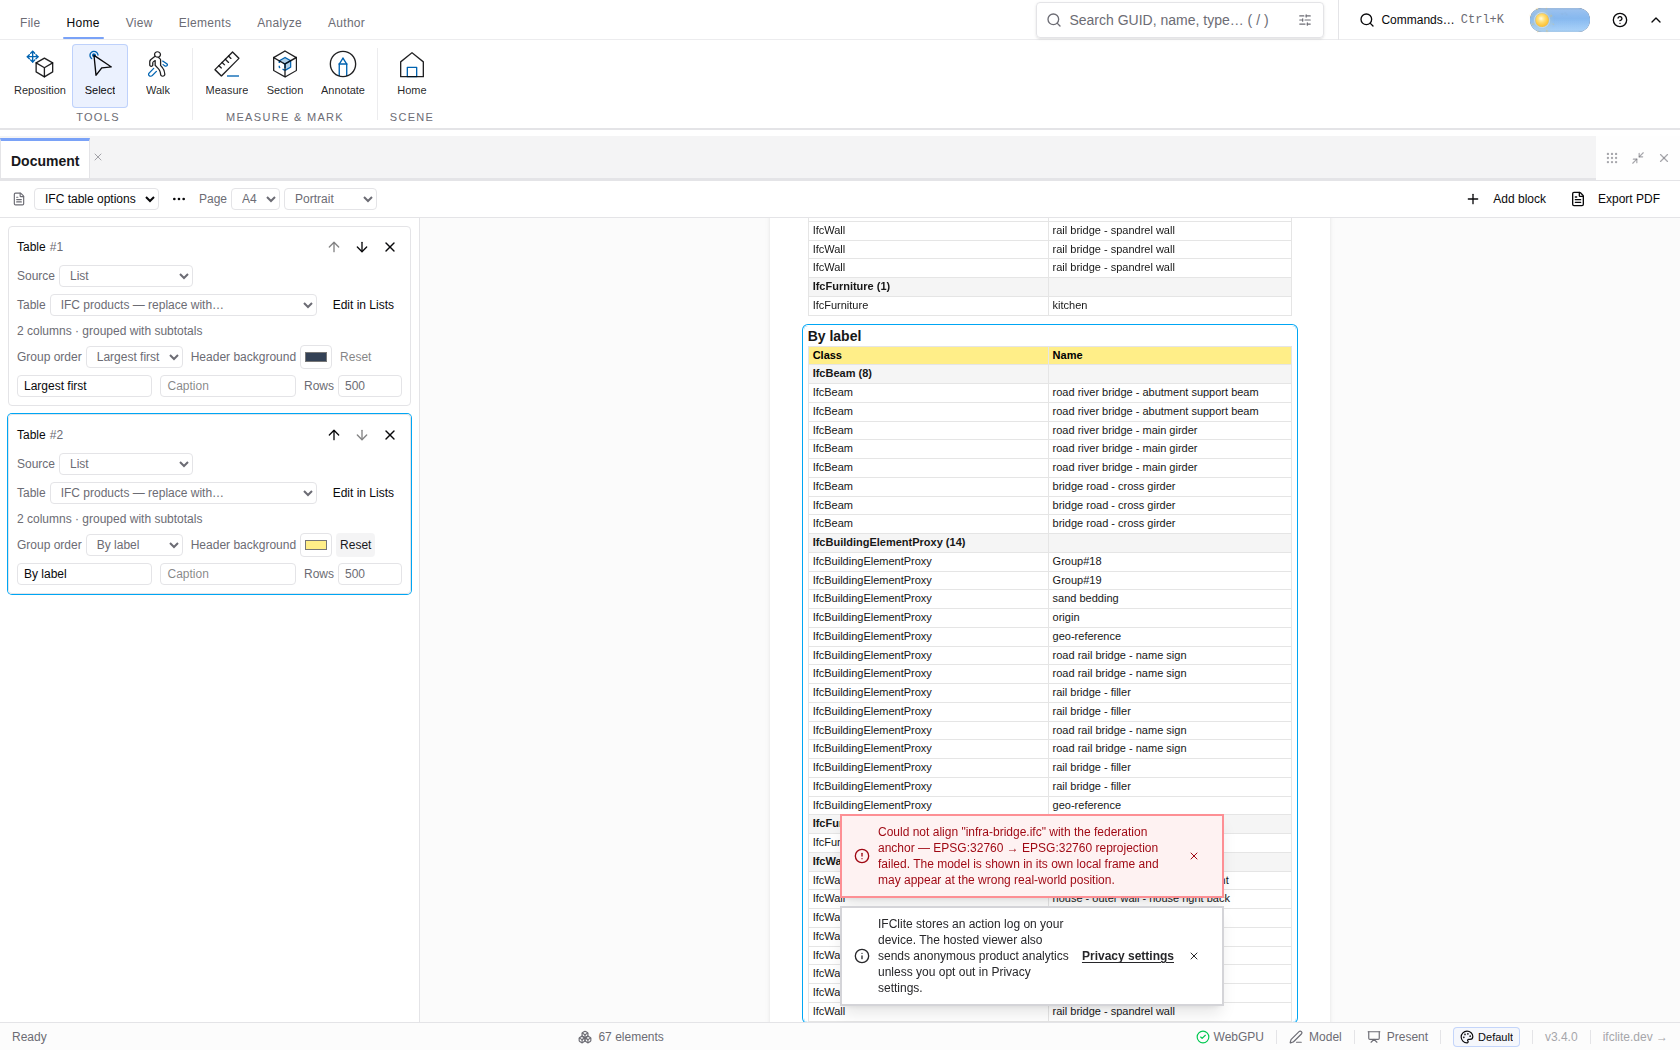
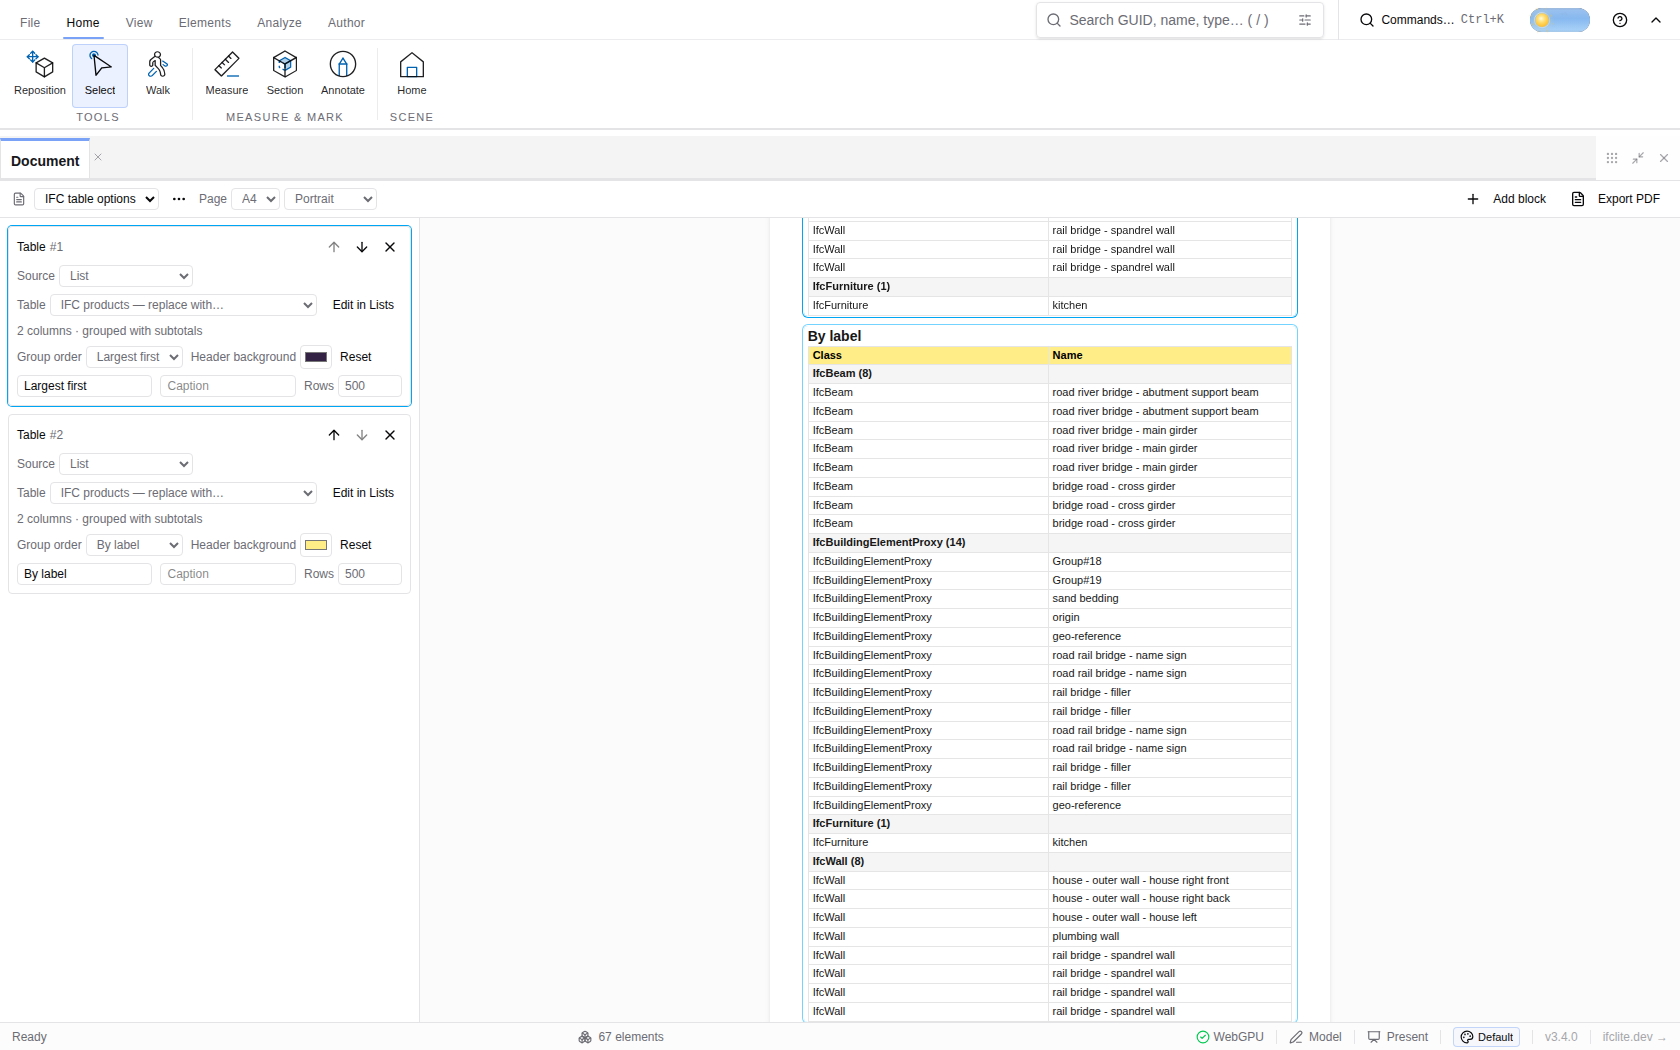
test(viewer): show readable table palettes without toast overlays

Changed region(s): [[0.4952, 0.7619, 0.7429, 0.9752], [0.1857, 0.3352, 0.2167, 0.3657]]

diff --git a/tests/e2e/document-text.e2e.spec.ts b/tests/e2e/document-text.e2e.spec.ts
@@ -493,6 +493,10 @@ test('#6489 real IFC document tables retain independent ordering and coloured re
   await color.fill('#ffee88');
   await expect(preview.locator('th').first()).toHaveCSS('background-color', 'rgb(255, 238, 136)');
   await expect(preview.locator('th').first()).toHaveCSS('color', 'rgb(0, 0, 0)');
+  await panel.locator('[data-block-editor="largest"] input[aria-label="Header background"]').fill('#332244');
+  await expect(firstPreview.locator('th').first()).toHaveCSS('color', 'rgb(255, 255, 255)');
+  const dismiss = page.getByRole('button', { name: 'Dismiss notification', exact: true });
+  while (await dismiss.count()) await dismiss.first().click();
   await preview.scrollIntoViewIfNeeded();
   await page.screenshot({ path: testInfo.outputPath('document-table-options.png') });
   const downloadPromise = page.waitForEvent('download'); await panel.locator('[data-document-export]').click();
